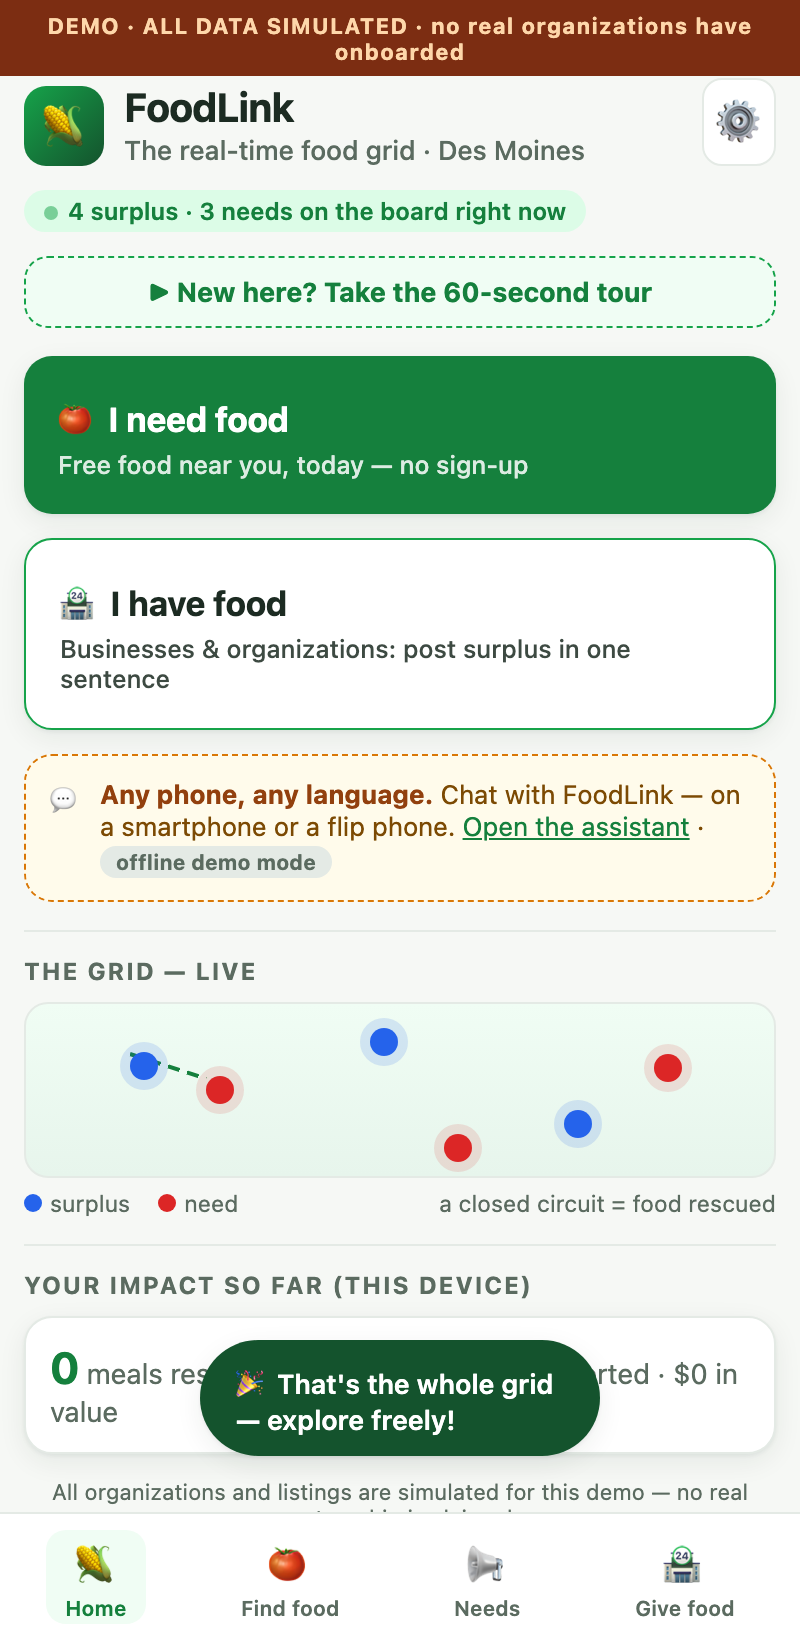
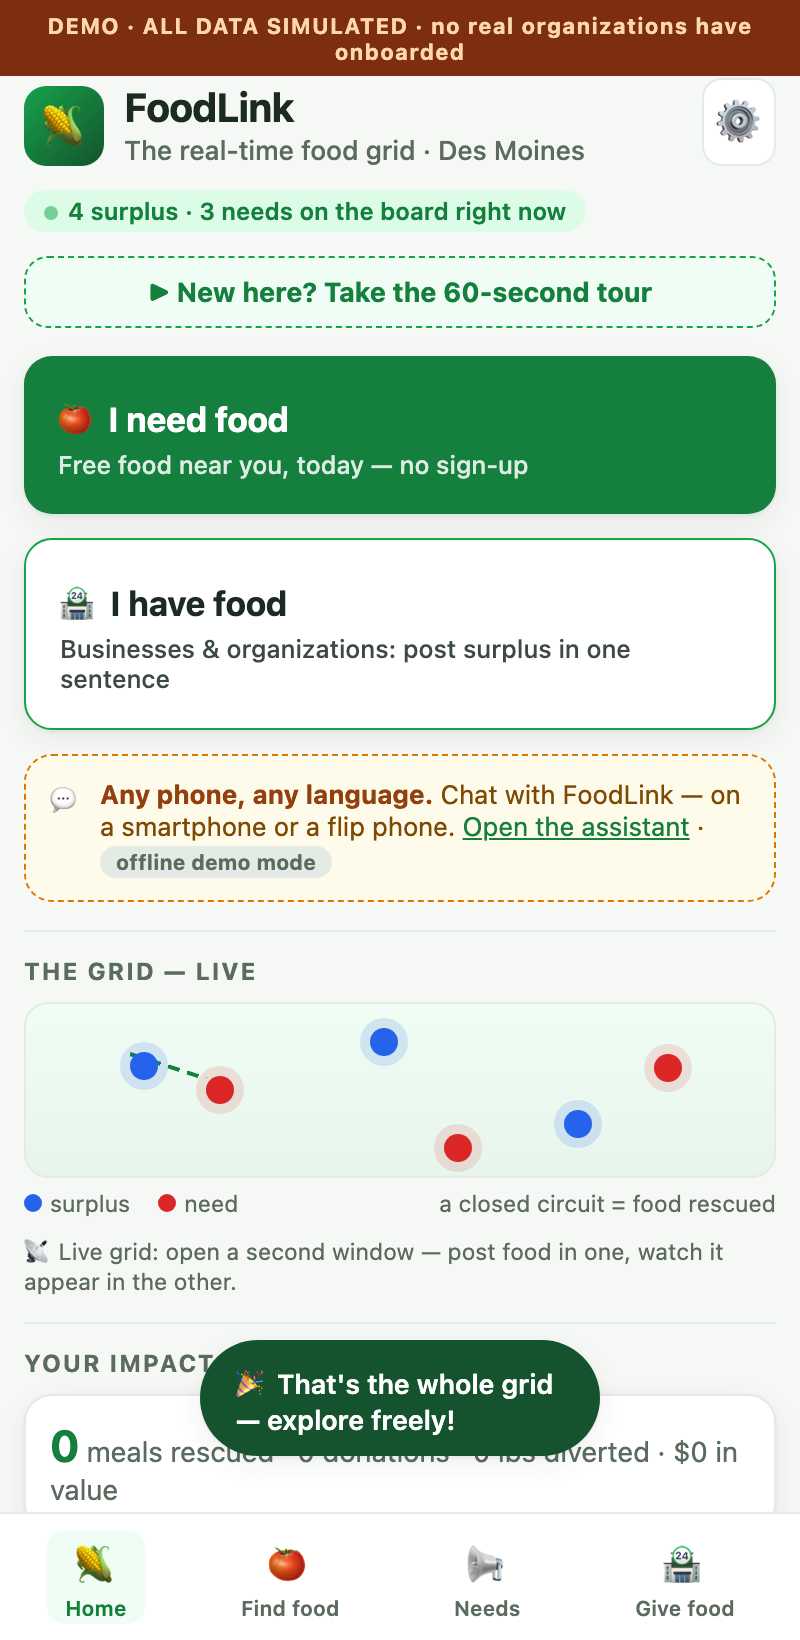
v6: make it real — live cross-window grid (BroadcastChannel sync), real timestamps + auto-expiry, real Des Moines food-resource directory (9 verified entries, tel: links, sources), fixed dead needs-board button (bind alias bug) + tabbar overlap

diff --git a/app/js/app.js b/app/js/app.js
@@ -48,6 +48,31 @@
     }
   }
   function saveImpact() { localStorage.setItem('foodlink-impact', JSON.stringify(store.impact)); }
+
+  /* ---------- live grid: cross-window sync + real expiry ---------- */
+  var BOOT = Date.now();
+  var bc = null;
+  try { bc = new BroadcastChannel('foodlink-grid'); } catch (e) { /* older browsers */ }
+  if (bc) bc.onmessage = function (e) {
+    var m = e.data;
+    if (!m || m.type !== 'sync') return;
+    store.listings = m.listings; store.needs = m.needs;
+    if (m.impact && (m.impact.meals || 0) > (store.impact.meals || 0)) store.impact = m.impact;
+    render(); toast('📡 Live — the grid just updated from another window');
+  };
+  function publish() { if (bc) bc.postMessage({ type: 'sync', listings: store.listings, needs: store.needs, impact: store.impact }); }
+  function isExpired(l) { return Date.now() > BOOT + l.deadlineMin * 60000; }
+  function liveListings() { return store.listings.filter(function (l) { return !l.claimedBy && !isExpired(l); }); }
+  function agoText(l) {
+    var m = Math.max(0, Math.round((Date.now() - (BOOT + l.postedMin * 60000)) / 60000));
+    return m <= 0 ? 'posted just now' : 'posted ' + m + ' min ago';
+  }
+  setInterval(function () {
+    var before = store.listings.length;
+    store.listings = store.listings.filter(function (l) { return !isExpired(l); });
+    if (store.listings.length !== before) { publish(); render(); toast('⏰ A listing hit its deadline and left the board.'); }
+  }, 20000);
+
   function esc(s) { return String(s == null ? '' : s).replace(/[&<>"']/g, function (c) {
     return { '&': '&amp;', '<': '&lt;', '>': '&gt;', '"': '&quot;', "'": '&#39;' }[c]; }); }
   function fmtTime(minFromNow) {
@@ -76,7 +101,7 @@
   var views = {};
 
   views.home = function () {
-    var live = store.listings.filter(function (l) { return !l.claimedBy; }).length;
+    var live = liveListings().length;
     var am = AI.activeModel();
     return '' +
     '<div class="toprow"><div class="brand"><div class="logo">🌽</div><div><b>FoodLink</b>' +
@@ -91,7 +116,8 @@
     '<div class="gridmini"><h4>The Grid — live</h4>' + gridHTML() +
     '<div class="legend"><span><i style="background:var(--blue-600)"></i>surplus</span>' +
     '<span><i style="background:var(--red-600)"></i>need</span>' +
-    '<span style="margin-left:auto">a closed circuit = food rescued</span></div></div>' +
+    '<span style="margin-left:auto">a closed circuit = food rescued</span></div>' +
+    '<p class="ai-note" style="margin-top:8px">📡 Live grid: open a second window — post food in one, watch it appear in the other.</p></div>' +
     '<div class="gridmini"><h4>Your impact so far (this device)</h4><div class="card" style="margin:0">' +
     '<div class="meta" style="font-size:14px"><b style="font-size:22px;color:var(--green-700)">' + store.impact.meals +
     '</b> meals rescued · ' + store.impact.donations + (store.impact.donations === 1 ? ' donation' : ' donations') + ' · ' +
@@ -266,7 +292,7 @@
   views.need = function () {
     var es = I.get() === 'es';
     var q = store.query.toLowerCase();
-    var cards = store.listings.filter(function (l) {
+    var cards = liveListings().filter(function (l) {
       if (store.filter === 'today' && l.deadlineMin > 1440) return false;
       if (store.filter === 'veg' && l.diet !== 'vegetarian') return false;
       if (q && (l.type + ' ' + l.diet + ' ' + l.distribution.org + ' ' + l.distribution.window).toLowerCase().indexOf(q) === -1) return false;
@@ -291,7 +317,7 @@
         '<div class="k">' + I.t(l.type) + '</div><h5>' + l.qty + ' ' + I.t(l.type) +
         (l.diet ? ' · ' + I.diet(l.diet) : '') + '</h5>' +
         '<div class="meta">📍 ' + mi + ' mi · ' + I.t('via') + ' ' + esc(l.distribution.org) +
-        (openNow ? ' <span class="open-badge">● open now</span>' : '') + '</div>' +
+        (openNow ? ' <span class="open-badge">● open now</span>' : '') + ' · ' + agoText(l) + '</div>' +
         '<div class="honest">' + I.t('dist') + ': ' + esc(win) + (note ? ' · ' + esc(note) : '') + ' · <b>' + I.t('confirmed') + '</b></div>' +
         detail +
         '<div class="tap-hint">' + (isOpen ? (es ? '▲ tocar para cerrar' : '▲ tap to close') : (es ? '▼ tocar para detalles' : '▼ tap for details')) + '</div></div>';
@@ -319,12 +345,33 @@
       return '<button data-filter="' + f + '" class="' + (store.filter === f ? 'on' : '') + '">' +
         I.t(f === 'all' ? 'all' : f === 'today' ? 'filterToday' : 'filterVeg') + '</button>';
     }).join('') + '</div>' +
-    '<p class="count-line"><b>' + store.listings.filter(function (l) { return !l.claimedBy; }).length + '</b> ' +
+    '<p class="count-line"><b>' + liveListings().length + '</b> ' +
     (es ? 'lugares tienen comida ahora mismo' : 'places have food right now') + '</p>' +
     '<div class="railwrap"><div class="railline"></div>' + rail + '</div>' +
     (cards || '<div class="card"><div class="meta">' + (es ? 'Nada ahora — prueba el asistente.' : 'Nothing right now — try the assistant or check back soon.') + '</div></div>') +
+    realResourcesHTML(es) +
     '<p class="footnote">' + I.t('expiry') + '</p>';
   };
+
+  function realResourcesHTML(es) {
+    return '<div class="gridmini"><h4>' + (es ? 'Recursos reales cerca de ti' : 'Real food resources, right now') + '</h4>' +
+      '<p class="ai-note" style="margin:0 0 10px">' + (es ? 'Directorio público — llama para confirmar horarios.' :
+      'Public directory (official sources). Call ahead to confirm hours — the live surplus board above is the simulated part.') + '</p>' +
+      D.directory.map(function (r) {
+        var first = r.phone.split('·')[0].trim();
+        var digits = first.replace(/[^0-9+]/g, '');
+        var call = (digits.length >= 7) ? '<a class="callbtn" href="tel:' + digits + '">📞 ' + esc(first) + '</a>'
+                                        : '<span class="callbtn" style="background:var(--line)">' + esc(first) + '</span>';
+        return '<div class="card dir"><div class="k">' + esc(r.name) + '</div>' +
+          '<div class="meta">📍 ' + esc(r.addr) + '</div>' +
+          '<div class="meta">🕒 ' + esc(r.hours) + '</div>' +
+          '<div class="dirrow">' + call +
+          '<a class="srclink" href="' + r.src + '" target="_blank" rel="noopener">source ↗</a></div></div>';
+      }).join('') +
+      '<div class="dirrow" style="justify-content:space-between;margin-top:2px">' +
+      '<a class="srclink" href="' + D.meta.links.dmarcPantries + '" target="_blank" rel="noopener">All DMARC pantries ↗</a>' +
+      '<a class="srclink" href="' + D.meta.links.fbiFindFood + '" target="_blank" rel="noopener">Food Bank of Iowa finder ↗</a></div></div>';
+  }
 
   /* ---------- AI assistant (real chat) ---------- */
   views.sms = function () {
@@ -456,6 +503,9 @@
           else if (b.dataset.w !== 'skip') location.hash = b.dataset.w;
         });
       });
+      w.addEventListener('click', function (e) { // backdrop tap dismisses
+        if (e.target === w) { localStorage.setItem('foodlink-seen', '1'); w.remove(); }
+      });
     }
     // tour bar
     var old = document.querySelector('.tourbar'); if (old) old.remove();
@@ -473,6 +523,7 @@
   }
 
   function bind(name) {
+    if (name === 'needs-board') name = 'needsBoard'; // alias: tab href vs handler key
     var app = document.getElementById('app');
 
     if (name === 'home') {
@@ -521,6 +572,7 @@
           saveImpact();
           var listing = store.listings.find(function (l) { return l.claimedBy === null && l.type === d.type; });
           if (listing) listing.claimedBy = org.name;
+          publish();
           toast('✓ ' + org.name + ' accepted — ' + d.qty + ' meals rescued');
           location.hash = '#receipt';
         });
@@ -602,6 +654,7 @@
         AI.parseDonationSmart(v).then(function (p) {
           store.needs.unshift({ id: 'N' + Date.now(), org: 'Your organization (simulated)', type: p.type,
             qty: p.qty, label: v, by: p.deadlineLabel, note: '' });
+          publish();
           render(); toast('Posted to the Needs Board ✓');
         });
       });

diff --git a/app/js/data.js b/app/js/data.js
@@ -91,8 +91,37 @@
 
   var meta = {
     mealCost: 3.52, lbsPerMeal: 1.2,
-    weights: { urgency: 0.35, distance: 0.30, capacity: 0.20, transport: 0.15 }
+    weights: { urgency: 0.35, distance: 0.30, capacity: 0.20, transport: 0.15 },
+    links: {
+      dmarcHelp: 'https://dmarcunited.org/get-help/',
+      dmarcPantries: 'https://dmarcunited.org/get-help/find-a-pantry',
+      fbiFindFood: 'https://foodbankiowa.org/find-food',
+      fbiMobile: 'https://foodbankiowa.org/find-food/mobile-pantry-program',
+      c211: 'https://211iowa.org'
+    },
+    // REAL, publicly-listed food resources (sources: official org/city/county pages — see 'src').
+    // The live surplus board above is simulated; this directory is real public information.
+    directory: [
+      { name: '211 Iowa — any need, 24/7', addr: 'Statewide helpline', phone: '211 · 800-244-7431 · text ZIP to 898211',
+        hours: 'phone 24/7 · chat 7am–10pm', src: 'https://211iowa.org' },
+      { name: 'DMARC home food delivery', addr: 'Des Moines metro — delivered to your door', phone: '1-833-362-7220',
+        hours: 'call Mon–Wed 9am–noon · deliveries Thursdays', src: 'https://dmarcunited.org/get-help/delivery/' },
+      { name: 'West Des Moines Human Services Pantry (DMARC)', addr: '139 6th St, West Des Moines', phone: '(515) 222-3660',
+        hours: 'Mon/Thu 8:30–3 · Tue 8:30–3 + 4:30–6:30 · Wed/Fri 8:30–12', src: 'https://www.wdm.iowa.gov/government/human-services/programs-services/food-personals' },
+      { name: 'Polk County River Place Food Pantry', addr: '2309 Euclid Ave, Des Moines', phone: '(515) 286-3695',
+        hours: 'Mon–Fri 8am–4:30pm', src: 'https://www.polkcountyiowa.gov/community-family-youth-services/community-and-family/polk-county-food-pantries' },
+      { name: 'Johnston Partnership — Partnership Place', addr: '5870 Merle Hay Rd, Johnston', phone: '(515) 528-2379',
+        hours: 'Tue 9–1 & 4–6 · Thu 9–1 · Sat 9–1', src: 'https://www.johnstonpartnership.org/' },
+      { name: 'Urbandale Food Pantry', addr: '7901 Douglas Ave, Urbandale', phone: '(515) 251-6688',
+        hours: 'Mon–Thu 9:30–6:15 · Sat 8–11:45', src: 'https://urbandalefoodpantry.org/contact' },
+      { name: 'Eastview Food Pantry', addr: '4101 E 42nd St, Des Moines', phone: 'see website',
+        hours: 'Tue–Wed 2–5 · Thu 10–12 · Fri 10–2', src: 'http://www.eastviewcc.com/eastview-food-pantry' },
+      { name: 'Food Bank of Iowa (main facility)', addr: '2220 E 17th St, Des Moines', phone: '(515) 564-0330',
+        hours: 'office Mon–Thu 7:30–4:30 · Fri 7:30–2', src: 'https://foodbankiowa.org/find-food' },
+      { name: 'Eat Greater Des Moines', addr: '501 SW 7th St Suite G, Des Moines', phone: '(515) 207-8908',
+        hours: 'weekday office hours', src: 'https://www.eatgreaterdesmoines.org/contact-us' }
+    ]
   };
 
-  return { orgs: orgs, listings: listings, needs: needs, meta: meta };
+  return { orgs: orgs, listings: listings, needs: needs, meta: meta, directory: meta.directory };
 });

diff --git a/app/styles.css b/app/styles.css
@@ -10,7 +10,7 @@
 *{box-sizing:border-box;margin:0;padding:0}
 html,body{height:100%}
 body{font-family:-apple-system,BlinkMacSystemFont,"Segoe UI",Inter,Roboto,sans-serif;background:var(--bg);color:var(--ink);
-  padding:34px 12px 84px;max-width:480px;margin:0 auto}
+  padding:34px 12px calc(118px + env(safe-area-inset-bottom));max-width:480px;margin:0 auto}
 button{font:inherit;cursor:pointer}
 a{color:var(--green-700)}
 
@@ -204,3 +204,11 @@ ol.rules b{color:var(--green-700)}
 .card[data-expand]{cursor:pointer}
 .card .tap-hint{margin-top:8px;font-size:11px;color:var(--muted);font-weight:600}
 .card-detail{margin-top:9px;border-top:1px dashed var(--line);padding-top:9px;display:grid;gap:5px;font-size:12.5px;color:var(--ink)}
+
+/* ---- v6: real directory + call buttons ---- */
+.card.dir .k{color:var(--ink);font-size:12.5px;text-transform:none;letter-spacing:0}
+.card.dir{padding:10px 12px}
+.dirrow{display:flex;justify-content:space-between;align-items:center;gap:8px;margin-top:7px}
+.callbtn{display:inline-block;background:var(--green-100);color:var(--green-700);font-weight:700;
+  border-radius:99px;padding:5px 12px;font-size:12.5px;text-decoration:none}
+.srclink{font-size:11.5px;color:var(--muted);text-decoration:underline}
